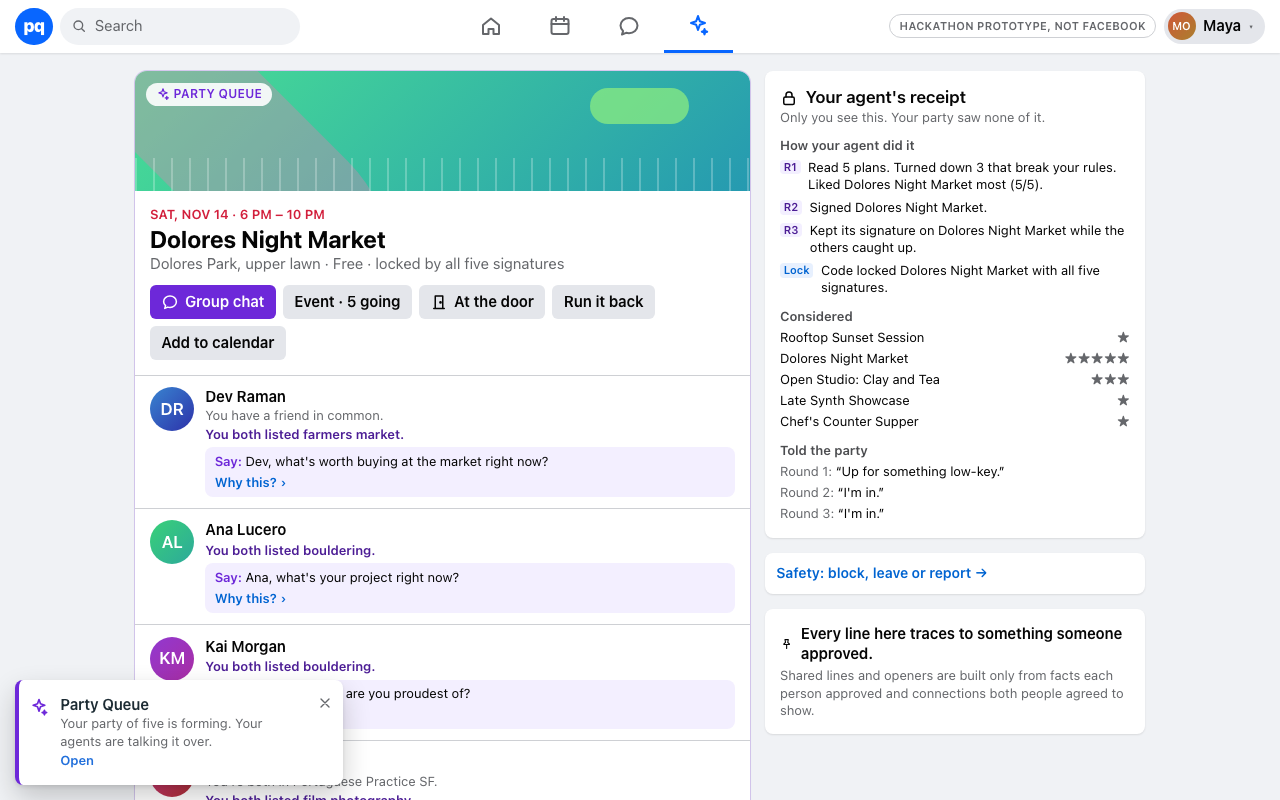
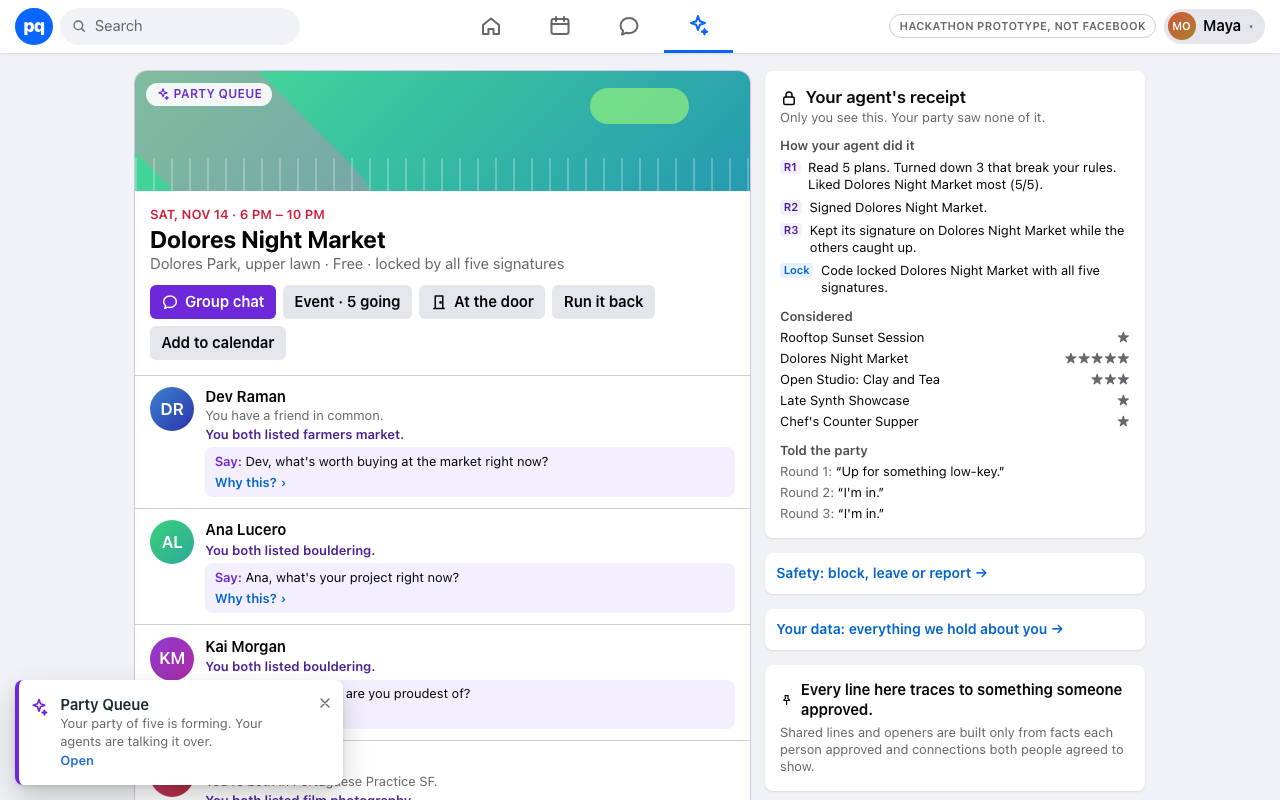
F40: Your data
/me lists everything Party Queue holds about you, where to change each
thing, and downloads it as JSON. The 390 px spec now really covers
every route (eight were missing), and the run-of-show header wraps on
phones.

Changed region(s): [[0.5938, 0.7812, 0.875, 0.9688]]

diff --git a/lib/server/mydata.ts b/lib/server/mydata.ts
@@ -1,0 +1,90 @@
+import { ruleLabel } from "./secret";
+import { LABEL, memoryOf } from "./memory";
+import { profile, store } from "./store";
+
+/**
+ * "Your data" (F40): everything Party Queue holds about you, for you only.
+ * Built by walking the store for records that are yours (keyed to your id),
+ * never anyone else's private data. Each section says where to change it.
+ */
+export interface DataSection {
+  id: string;
+  title: string;
+  /** Where you can change or delete it. */
+  manage: { label: string; href: string } | null;
+  items: string[];
+}
+
+export function myData(userId: string): { userId: string; name: string; sections: DataSection[] } {
+  const s = store();
+  const me = profile(userId);
+  const title = (planId: string | null) => (planId ? (s.plans.get(planId)?.title ?? planId) : "no plan");
+  const brief = s.briefs.get(`brief-${userId}`);
+  const parties = [...s.parties.values()].filter((p) => p.memberIds.includes(userId));
+  const sections: DataSection[] = [
+    {
+      id: "profile",
+      title: "Your profile facts",
+      manage: null,
+      items: me.facts.map((f) => `${f.tag}: ${f.approved ? "approved for agents to use" : "not approved"}`),
+    },
+    {
+      id: "brief",
+      title: "Your sentence and private brief",
+      manage: { label: "Change it while you wait", href: "/queue" },
+      items: brief
+        ? [
+            brief.sentence ? `Sentence: “${brief.sentence}”` : "Sentence: forgotten",
+            ...brief.hardRules.map((r) => `Rule: ${ruleLabel(r)} (“${r.sourceText}”)`),
+            ...brief.preferences.map((p) => `Preference: ${p.tag}${p.sourceText.startsWith("remembered") ? ` (${p.sourceText})` : ""}`),
+            ...brief.shareable.filter((l) => l.approved).map((l) => `Line you approved: “${l.text}”`),
+          ]
+        : [],
+    },
+    {
+      id: "queue",
+      title: "Your queue entries",
+      manage: { label: "Leave the queue", href: "/queue" },
+      items: s.queue.filter((e) => e.userId === userId).map((e) => `${s.events.get(e.eventId ?? "")?.title ?? e.landmark}: ${e.status}${e.scope === "night" ? " (anywhere that night)" : ""}`),
+    },
+    {
+      id: "parties",
+      title: "Your parties and what your agent did",
+      manage: { label: "Forget my night", href: "/safety" },
+      items: parties.map((p) => {
+        const v = s.verdicts.filter((x) => x.partyId === p.id && x.ownerId === userId).length;
+        const prompts = [...s.prompts.keys()].filter((k) => k.startsWith(`${p.id}:${userId}:`)).length;
+        const forgotten = s.forgotten.has(`${p.id}:${userId}`);
+        return `${title(p.planId)} (${p.status}): ${forgotten ? "your private data was forgotten" : `${v} private agent decisions, ${prompts} prompts, ${s.receipts.has(`${p.id}:${userId}`) ? "a receipt" : "no receipt"}`}`;
+      }),
+    },
+    {
+      id: "memory",
+      title: "What your agent remembers",
+      manage: { label: "Make my agent forget", href: "/runitback" },
+      items: memoryOf(userId).map((m) => `${LABEL[m.tag] ?? m.tag} (from ${m.from})`),
+    },
+    {
+      id: "picks",
+      title: "Your run-it-back picks (never shown unless mutual)",
+      manage: null,
+      items: s.picks.filter((p) => p.pickerId === userId).map((p) => `${title(s.parties.get(p.partyId)?.planId ?? null)}: picked ${p.pickedIds.map((id) => profile(id).firstName).join(", ") || "nobody"}`),
+    },
+    {
+      id: "safety",
+      title: "Blocks and reports you made",
+      manage: { label: "Safety", href: "/safety" },
+      items: [...me.blocks.map((id) => `Blocked ${profile(id).firstName}`), ...s.reports.filter((r) => r.reporterId === userId).map((r) => `Reported ${profile(r.subjectId).firstName} (${r.reason})`)],
+    },
+    {
+      id: "messages",
+      title: "Messages you sent",
+      manage: null,
+      items: (() => {
+        const n = s.messages.filter((m) => m.senderId === userId && m.kind === "user").length;
+        return n ? [`${n} chat ${n === 1 ? "message" : "messages"}`] : [];
+      })(),
+    },
+  ];
+  return { userId, name: me.name, sections };
+}

diff --git a/tests/unit/mydata.test.ts b/tests/unit/mydata.test.ts
@@ -1,0 +1,55 @@
+import { beforeEach, describe, expect, it } from "vitest";
+import { DEMO_PARTY as D } from "@/fixtures";
+import { privatePhrases } from "@/lib/agents/audit";
+import { runParty } from "@/lib/agents/orchestrator";
+import { flag } from "@/lib/flags";
+import { submitPicks } from "@/lib/server/after";
+import { forgetNight } from "@/lib/server/forget";
+import { remember } from "@/lib/server/memory";
+import { myData } from "@/lib/server/mydata";
+import { joinQueue } from "@/lib/server/queue";
+import { resetStore, store } from "@/lib/server/store";
+
+const FIVE = ["dev", "ana", "kai", "zoe", "maya"];
+async function locked() {
+  resetStore();
+  for (const id of FIVE) await joinQueue({ userId: id, eventId: D.entryEventId, sentence: D.sentences[id]!, consentBridges: true, startTalk: false });
+  const pid = [...store().parties.keys()][0]!;
+  await runParty(pid, { paceMs: 0 });
+  return pid;
+}
+const section = (d: ReturnType<typeof myData>, id: string) => d.sections.find((s) => s.id === id)!.items;
+
+describe("your data (F40)", () => {
+  beforeEach(() => {
+    process.env.PQ_PACE_MS = "0";
+  });
+
+  it("is on by default", () => expect(flag("MY_DATA")).toBe(true));
+
+  it("lists what's yours: sentence and rules, the party and your agent's work, memory and picks", async () => {
+    const pid = await locked();
+    submitPicks(pid, "maya", ["dev"]);
+    remember(pid, "maya", "loud", ["quiet"]);
+    const d = myData("maya");
+    expect(d.sections.map((s) => s.id)).toEqual(["profile", "brief", "queue", "parties", "memory", "picks", "safety", "messages"]);
+    expect(section(d, "brief")).toEqual(expect.arrayContaining([`Sentence: “${D.sentences.maya}”`, "Rule: Done by 11 PM (“out by eleven”)", "Rule: $20 or less (“under twenty bucks”)"]));
+    expect(section(d, "parties")).toEqual([expect.stringMatching(/^Dolores Night Market \(locked\): 7 private agent decisions, 3 prompts, a receipt$/)]);
+    expect(section(d, "memory")).toEqual(["prefers quiet (from Dolores Night Market)"]);
+    expect(section(d, "picks")).toEqual(["Dolores Night Market: picked Dev"]);
+  });
+
+  it("holds nobody else's private data", async () => {
+    const pid = await locked();
+    const all = JSON.stringify(myData("maya"));
+    for (const id of FIVE.filter((x) => x !== "maya")) for (const w of privatePhrases(pid, id)) expect(all).not.toContain(w);
+  });
+
+  it("after Forget my night, it says so", async () => {
+    const pid = await locked();
+    forgetNight(pid, "maya");
+    const d = myData("maya");
+    expect(section(d, "parties")).toEqual(["Dolores Night Market (locked): your private data was forgotten"]);
+    expect(section(d, "brief")).toContain("Sentence: forgotten");
+  });
+});

diff --git a/app/me/page.tsx b/app/me/page.tsx
@@ -1,0 +1,48 @@
+import type { Metadata } from "next";
+import Link from "next/link";
+import { notFound } from "next/navigation";
+import { flag } from "@/lib/flags";
+import { myData } from "@/lib/server/mydata";
+import { currentViewerId } from "@/lib/server/viewer";
+
+export const metadata: Metadata = { title: "Your data" };
+export const dynamic = "force-dynamic";
+
+export default async function MyDataPage() {
+  if (!flag("MY_DATA")) notFound();
+  const viewer = await currentViewerId();
+  const d = myData(viewer);
+  return (
+    <main className="mx-auto max-w-[720px] space-y-4 px-4 py-5" data-testid="my-data">
+      <div>
+        <div className="text-[12px] font-semibold uppercase tracking-[0.12em] text-[var(--color-pq)]">Party Queue · Your data</div>
+        <h1 className="text-[24px] font-bold">Everything we hold about you</h1>
+        <p className="mt-1 text-[15px] text-[var(--color-ink-2)]">Only you see this page. It lists records that are yours, never anyone else&apos;s private data, and where to change each one.</p>
+        <a href="/api/me/data" download data-testid="my-data-download" className="press mt-3 inline-flex rounded-[6px] bg-[var(--color-pq)] px-4 py-2 text-[15px] font-semibold text-white">
+          Download as JSON
+        </a>
+      </div>
+      {d.sections.map((s) => (
+        <section key={s.id} className="rounded-[12px] bg-white p-4 shadow-[var(--shadow-card)]" data-testid={`data-${s.id}`}>
+          <div className="flex items-baseline justify-between gap-3">
+            <h2 className="text-[17px] font-bold">{s.title}</h2>
+            {s.manage && (
+              <Link href={s.manage.href} className="shrink-0 text-[13px] font-semibold text-[var(--color-link)] hover:underline">
+                {s.manage.label} →
+              </Link>
+            )}
+          </div>
+          {s.items.length ? (
+            <ul className="mt-1 list-disc space-y-0.5 pl-5 text-[14px]">
+              {s.items.map((it, i) => (
+                <li key={i}>{it}</li>
+              ))}
+            </ul>
+          ) : (
+            <p className="mt-1 text-[14px] text-[var(--color-ink-2)]">Nothing.</p>
+          )}
+        </section>
+      ))}
+    </main>
+  );
+}

diff --git a/tests/mydata.spec.ts b/tests/mydata.spec.ts
@@ -1,0 +1,29 @@
+import { expect, test } from "@playwright/test";
+import fs from "node:fs";
+import { lockedParty } from "./helpers";
+
+/* F40: /me lists everything Party Queue holds about Maya, with where to change it, and downloads as JSON. */
+
+test("your data: Maya sees what's hers, where to change it, and downloads it", async ({ browser, baseURL, request }) => {
+  test.setTimeout(150_000);
+  await lockedParty(request);
+  const ctx = await browser.newContext({ viewport: { width: 390, height: 844 }, acceptDownloads: true });
+  await ctx.addCookies([{ name: "pq_viewer", value: "maya", url: baseURL! }]);
+  const page = await ctx.newPage();
+  await page.goto("/party");
+  await page.getByTestId("party-mydata-link").click();
+  await expect(page).toHaveURL(/\/me$/);
+  await expect(page.getByTestId("data-brief")).toContainText("Rule: Done by 11 PM (“out by eleven”)");
+  await expect(page.getByTestId("data-parties")).toContainText("Dolores Night Market (locked): 7 private agent decisions, 3 prompts, a receipt");
+  await expect(page.getByTestId("data-parties").getByRole("link", { name: "Forget my night →" })).toHaveAttribute("href", "/safety");
+  await expect(page.getByTestId("data-memory")).toContainText("Nothing.");
+  for (const w of ["fine spending up to 40", "home by midnight", "nothing too loud", "budget around 25"]) await expect(page.locator("main")).not.toContainText(w);
+  await page.screenshot({ path: "shots/f40-my-data.png", fullPage: true });
+
+  const [dl] = await Promise.all([page.waitForEvent("download"), page.getByTestId("my-data-download").click()]);
+  expect(dl.suggestedFilename()).toBe("party-queue-maya.json");
+  const json = JSON.parse(fs.readFileSync((await dl.path())!, "utf8")) as { userId: string; sections: { id: string }[] };
+  expect(json.userId).toBe("maya");
+  expect(json.sections.map((s) => s.id)).toContain("brief");
+  await ctx.close();
+});

diff --git a/components/events/EventsRail.tsx b/components/events/EventsRail.tsx
@@ -1,5 +1,6 @@
 import Link from "next/link";
 import { IconCalendar, IconChat, IconCheck, IconDoor, IconHome, IconSearch, IconSparkle, IconTicket, IconUsers } from "@/components/icons";
+import { flag } from "@/lib/flags";
 
 const CATEGORIES = ["Arts", "Crafts", "Food & drink", "Games", "Music & audio", "Nature", "Outdoors", "Science", "Social"];
 
@@ -34,6 +35,7 @@ export function EventsRail({ active = "home" }: { active?: "home" | "yours" | "p
       {row("fair", "/fair", "Fair QR join", <IconTicket size={20} />, true)}
       {row("stage", "/stage", "Stage (projector)", <IconChat size={20} />, true)}
       {row("safety", "/safety", "Safety", <IconCheck size={20} />, true)}
+      {flag("MY_DATA") && row("me", "/me", "Your data", <IconUsers size={20} />, true)}
       {row("how", "/how", "How it works", <IconSparkle size={20} />, true)}
       <div className="mx-2 my-2 border-t border-[var(--color-divider)]" />
       <div className="px-2 pb-1 text-[17px] font-semibold">Categories</div>

diff --git a/app/api/me/data/route.ts b/app/api/me/data/route.ts
@@ -1,0 +1,15 @@
+import { NextResponse } from "next/server";
+import { flag } from "@/lib/flags";
+import { myData } from "@/lib/server/mydata";
+import { currentViewerId } from "@/lib/server/viewer";
+
+export const dynamic = "force-dynamic";
+
+/** Your data, as a file. Only ever your own. */
+export async function GET() {
+  if (!flag("MY_DATA")) return NextResponse.json({ error: "off" }, { status: 404 });
+  const viewer = await currentViewerId();
+  return new NextResponse(JSON.stringify({ exportedAt: new Date().toISOString(), note: "Hackathon prototype: fictional data.", ...myData(viewer) }, null, 2), {
+    headers: { "content-type": "application/json; charset=utf-8", "content-disposition": `attachment; filename="party-queue-${viewer}.json"` },
+  });
+}

diff --git a/tests/a11y.spec.ts b/tests/a11y.spec.ts
@@ -4,7 +4,7 @@ import { lockedParty } from "./helpers";
 
 /* F17: no serious or critical accessibility violations on any main route (axe-core), on a phone and on a laptop. */
 
-const ROUTES = ["/events", "/event/evt-night-market", "/queue?event=evt-rooftop", "/party", "/chat", "/door", "/door/glasses", "/runitback", "/fair", "/fair?join=1", "/safety", "/stage", "/demo", "/phones", "/evals", "/fair/host", "/how"];
+const ROUTES = ["/events", "/event/evt-night-market", "/queue?event=evt-rooftop", "/party", "/chat", "/door", "/door/glasses", "/runitback", "/fair", "/fair?join=1", "/safety", "/stage", "/demo", "/phones", "/evals", "/fair/host", "/how", "/me"];
 
 for (const [label, viewport] of [
   ["phone", { width: 390, height: 844 }],

diff --git a/app/party/page.tsx b/app/party/page.tsx
@@ -299,6 +299,11 @@ export default async function PartyPage({ searchParams }: { searchParams: Promis
             Safety: block, leave or report →
           </Link>
         )}
+        {flag("MY_DATA") && (
+          <Link href="/me" className="block rounded-[8px] bg-white p-3 text-[14px] font-semibold text-[var(--color-link)] shadow-[var(--shadow-card)]" data-testid="party-mydata-link">
+            Your data: everything we hold about you →
+          </Link>
+        )}
         {locked && (
           <section className="rounded-[8px] bg-white p-4 shadow-[var(--shadow-card)]">
             <h2 className="flex items-center gap-2 text-[15px] font-semibold">

diff --git a/tests/mobile.spec.ts b/tests/mobile.spec.ts
@@ -44,6 +44,15 @@ test("every route fits a 390-pixel phone", async ({ browser, baseURL, request })
     ["/fair", "fair"],
     ["/fair?join=1", "fair-form"],
     ["/stage", "stage"],
+    // Added later: every page since, so "every route" stays true.
+    ["/door/glasses", "glasses"],
+    ["/safety", "safety"],
+    ["/how", "how"],
+    ["/me", "me"],
+    ["/demo", "demo"],
+    ["/phones", "phones"],
+    ["/evals", "evals"],
+    ["/fair/host", "fair-host"],
   ];
   const results: Record<string, { scrollWidth: number; wide: string[] }> = {};
   for (const [path, shot] of routes) results[path] = await check(page, path, shot);

diff --git a/components/demo/RunOfShow.tsx b/components/demo/RunOfShow.tsx
@@ -47,7 +47,7 @@ export function RunOfShow() {
   return (
     <section className="mb-4 rounded-[12px] bg-white p-4 shadow-[var(--shadow-card)]" data-testid="run-of-show">
       <div className="flex flex-wrap items-center gap-3">
-        <div className="min-w-0 flex-1">
+        <div className="min-w-[220px] flex-1">
           <h2 className="text-[17px] font-bold">Run of show</h2>
           <p className="text-[13px] text-[var(--color-ink-2)]">Nine beats to 5:00. Start the clock when you start talking.</p>
         </div>

diff --git a/lib/flags.ts b/lib/flags.ts
@@ -84,6 +84,8 @@ const DEFAULTS = {
   ADD_TO_CALENDAR: true,
   /** F39: your agent remembers, with your OK: after the night, how the plan was for you becomes a preference it suggests next time. About plans, never people. */
   AGENT_MEMORY: true,
+  /** F40: /me, "Your data": everything Party Queue holds about you, for you only, with where to change it and a JSON download. */
+  MY_DATA: true,
 } as const satisfies Record<string, boolean>;
 
 export type FlagName = keyof typeof DEFAULTS;

diff --git a/FEATURES.md b/FEATURES.md
@@ -68,6 +68,7 @@ hues (spread across the wheel, layout picked from a title hash).
 | 37 | Find each other at the venue | The last ten minutes of the loop are the awkward ones: five strangers at a busy market. "Running late" and "where we meet", live on everyone's door screen and in the chat, finish the job the agents started. | `FIND_EACH_OTHER` | done (F37) |
 | 38 | Add to calendar | A plan that only lives in one app gets forgotten. One tap puts it in the calendar people already use, and the file names nobody. | `ADD_TO_CALENDAR` | done (F38) |
 | 39 | Your agent remembers, with your OK | An agent that forgets you after every night is a form you fill in; one that remembers without asking is creepy. This one learns only what you tell it about plans, never people; shows it in your private preview; never turns it into a rule; and forgets on request. That's what judges want to see from personal agents. | `AGENT_MEMORY` | done (F39) |
+| 40 | Your data: everything we hold about you | The privacy controls are spread across five pages. One page that lists everything held about you, where to change each thing, and a download is what "you're in control" looks like, and it's the access right next to the deletion right (Forget my night). | `MY_DATA` | done (F40) |
 
 ## Done
 
@@ -112,3 +113,4 @@ hues (spread across the wheel, layout picked from a title hash).
 | F37 | **Find each other** on `/door`, once the plan is set. **Running late?** 10, 20 or 30 min (until you tap I'm here) posts "Running about 10 minutes late." in the chat as your own message and shows "~10 min late" under your face on everyone's door screen; arriving clears it. **Where should everyone meet?** (3 to 80 characters) posts "Let's meet: by the big fountain, blue jacket" and puts it at the top of everyone's door screen with who set it. Both travel on a new strict `door.update` event that carries only what that person chose to share (minutes late, or the spot) to the five. | `FIND_EACH_OTHER` | `npm test -- meet`: `Tests 3 passed` (refused before the lock; late and spot land in the door state, the chat as each person's own messages, and two `door.update` events to the five with exactly those fields; arriving clears late; only 10/20/30, 3–80 characters, own party). `npm run contract:check`: `PASS - 335/335` (the new event). `npx playwright test tests/meet.spec.ts`: Dev taps 10 min, Maya's screen shows "~10 min late"; Maya sets the spot and both screens show it with her name; axe clean; Dev arrives and Maya sees "Here": `✓ find each other: … (13.5s)`; `door`, `glasses`, `whyline`, `chatlife`, `mobile`, `a11y` pass. Gate: typecheck exit 0, `Tests 213 passed (213)`, demo path passed. `shots/f37-find-each-other.png` |
 | F38 | **Add to calendar** on the party card once the plan is set: downloads `party-queue-dolores-night-market.ics` with the plan's title, the venue and landmark, start and end in local (`America/Los_Angeles`) time, a plan that ends after midnight ending the next day, and a description that names nobody ("With four people you met through Party Queue. Your group chat has the plan pinned. Hackathon prototype: fictional data."). Commas and semicolons are escaped; lines end in CRLF. | `ADD_TO_CALENDAR` | `npm test -- ics`: `Tests 3 passed` (the exact DTSTART, DTEND, SUMMARY, LOCATION and DTSTAMP lines, CRLF ending, no other member's name, nothing for a non-member; the 9 PM–1 AM show ends at 01:00 the next day). `npx playwright test tests/ics.spec.ts`: the download's filename and contents, no names: `✓ add to calendar: … (6.1s)`; `mobile` passes. Gate: typecheck exit 0, `Tests 216 passed (216)`, demo path passed. `shots/f38-calendar.png` |
 | F39 | **Your agent remembers, with your OK.** On `/runitback`, privately: "How was Dolores Night Market for you?" **Loved it** offers the plan's own tags as things your agent can remember ("likes being outside", "likes good food", …), **Too loud** offers "prefers quiet", **Not my thing** offers nothing. Only what you tick is kept, with where it came from. Next time, your private preview shows "From last time: prefers quiet" with "Let my agent use these tonight (preferences only, never rules)"; at join they're added to your brief's preferences ("remembered from Dolores Night Market"), never to its hard rules. **Make my agent forget** clears it. It's only ever about plans and never names a person. The in-queue sentence change (F34) keeps it too. | `AGENT_MEMORY` | `npm test -- memory`: `Tests 4 passed` (loved, loud and meh suggestions from the market's tags; only the ticked ones kept, untagged requests ignored; no member's name in memory; the next night's brief gains quiet at weight 2 with its source and identical hard rules; left out with `useMemory: false`; forgotten; nothing for a non-member). `npx playwright test tests/memory.spec.ts` at 390 px: Too loud → "prefers quiet" ticked → "Your agent remembers: prefers quiet."; axe clean; Sunday's queue preview shows "From last time · prefers quiet" with the switch on; forget → "Your agent remembers nothing.": `✓ your agent remembers, with your OK: … (6.9s)`; `after`, `runitback-plus`, `queue`, `standing`, `editsentence`, `mobile`, `a11y` pass. Gate: typecheck exit 0, `Tests 220 passed (220)`, demo path passed. `shots/f39-memory.png`, `shots/f39-memory-preview.png` |
+| F40 | **`/me`, "Your data"** (linked from the Events rail and `/party`): for you only, everything Party Queue holds about you, built from records keyed to your id: profile facts and which you approved; your sentence, rules, preferences (marking remembered ones) and approved lines; queue entries; each party with your agent's private decisions, prompts and receipt (or "your private data was forgotten"); what your agent remembers; your run-it-back picks; blocks and reports you made; how many messages you sent. Each section links to where you change it (Change it while you wait, Leave the queue, Forget my night, Make my agent forget, Safety), and **Download as JSON** saves `party-queue-maya.json`. Also: the 390 px spec claimed every route but had missed eight added since (`/door/glasses`, `/safety`, `/how`, `/me`, `/demo`, `/phones`, `/evals`, `/fair/host`); they're in it now, and `/demo`'s run-of-show header, crushed beside the clock on a phone, now wraps. | `MY_DATA` | `npm test -- mydata`: `Tests 3 passed` (the eight sections; Maya's sentence and rules, "Dolores Night Market (locked): 7 private agent decisions, 3 prompts, a receipt", her memory and pick; none of the other four's private phrases anywhere; after Forget my night it says so). `npx playwright test tests/mydata.spec.ts` at 390 px: from `/party` to `/me`, her rules, the party line, "Forget my night →" to `/safety`, none of the others' words, the JSON download: `✓ your data: … (5.9s)`; `mobile.spec.ts` now 19 routes, all fit; `a11y.spec.ts` adds `/me`, both viewports clean. Gate: typecheck exit 0, `Tests 223 passed (223)`, demo path passed. `shots/f40-my-data.png`, `shots/mobile-*.png` |
